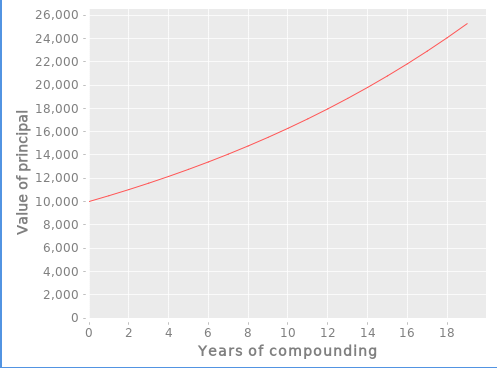
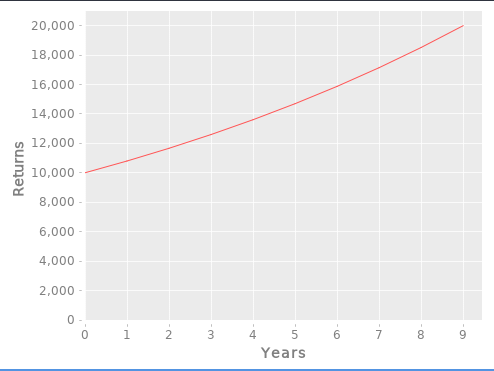
updated sample

diff --git a/docs/viz.md b/docs/viz.md
@@ -6,16 +6,15 @@ Motto has built-in visualization facilities that enable you to present
 results of data analysis in an appealing manner.
 
 The following program shows how to graphically view the projected returns from an investment
-over 20 years:
+over 10 years:
 
 ```lisp
-principal: 10000
-interest_rate: 0.05
-years: 20
-returns: (^X1 + X1 * interest_rate) @~ repeat(years principal)
+investment: 10000
+rate: 0.08
+years: 10
+returns: (^X1 + X1 * rate) @~ repeat(years investment)
 
-plot('xy til(years) returns
-     ['xlabel: "Years of compounding" 'ylabel: "Value of principal"])
+plot('xy til(years) returns ['xlabel: "Years" 'ylabel: "Returns"])
 ```
 
 The `plot` function will produce the following chart on screen:
